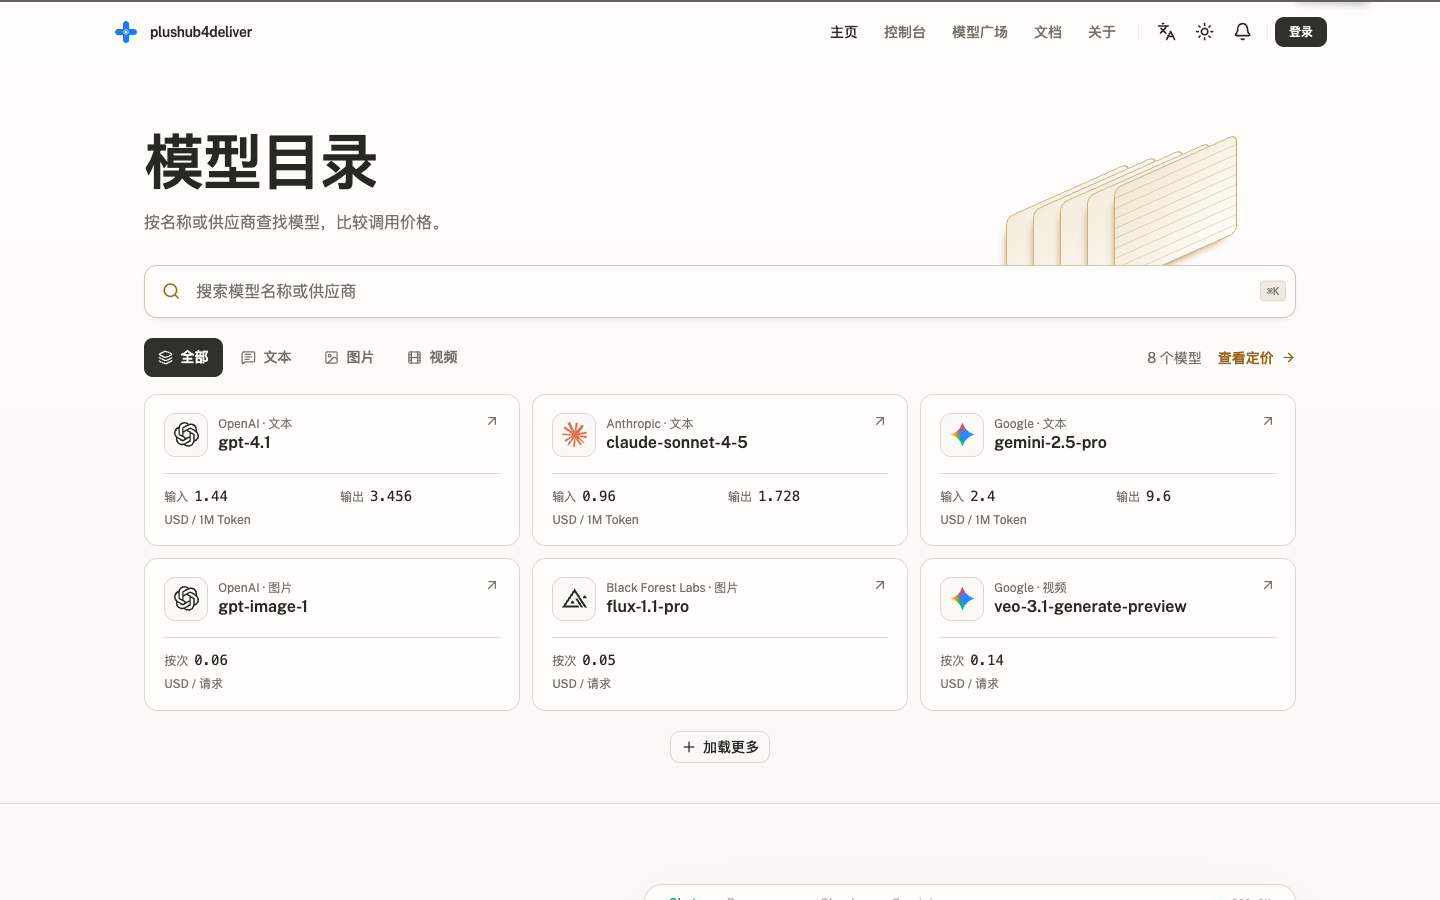
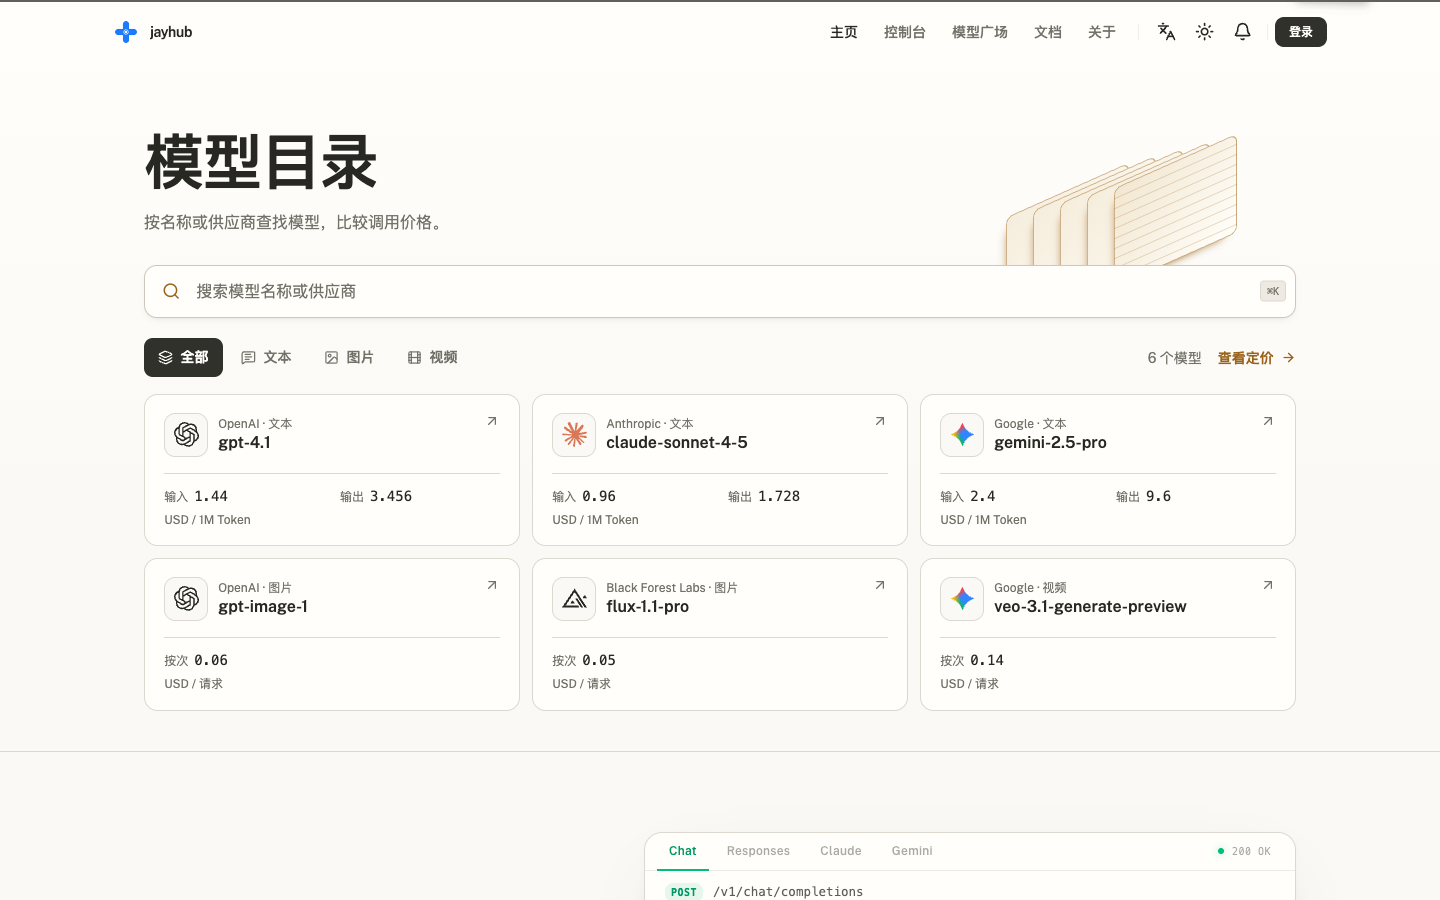
feat: rename the delivery site and repository to jayhub

Changed region(s): [[0.4375, 0.9333, 0.5938, 1.0], [0.0938, 0.0311, 0.1875, 0.0622], [0.4688, 0.8089, 0.5312, 0.84]]

diff --git a/delivery/甲方交付手册.md b/delivery/甲方交付手册.md
@@ -1,18 +1,18 @@
-# plushub4deliver 站点交付手册
+# jayhub 站点交付手册
 
 **交付对象**　甲方技术运维及运营负责人
 
-**交付版本**　基于 New API `v1.0.0-rc.51`，本次交付源码为 `9a7310a`。[接受邀请后查看本次交付源码](https://github.com/0xdenny218/plushub4deliver/tree/9a7310a9235e11af1174af4e5508a112056b1baf)
+**交付版本**　基于 New API `v1.0.0-rc.51`，本次交付源码由运营提供的 Git 提交号标识。[查看本次交付源码](https://github.com/0xdenny218/jayhub/tree/main)
 
 ## 一、接收项目与上游账号
 
-**先联系供货方运营获取 GitHub 私有仓库邀请。** 请通过双方约定的交付渠道，将负责接收源码的 GitHub 用户名提供给运营。收到邀请后，用该账号登录 GitHub 并接受邀请，再打开 [plushub4deliver 代码仓库](https://github.com/0xdenny218/plushub4deliver)。能看到仓库文件即表示访问已开通。若出现 404，请核对当前登录的账号，并联系运营确认邀请状态。
+请联系供货方运营确认本次交付版本和已开通的模型。源码可从 [jayhub 代码仓库](https://github.com/0xdenny218/jayhub) 通过 HTTPS 克隆。若运营为甲方单独提供私有仓库，请提供 GitHub 用户名，用受邀账号接受邀请后使用运营提供的仓库地址。
 
 甲方独立运行本站。终端用户向甲方注册、充值并申请 API 密钥。用户的模型请求经过甲方站点，使用供货方分配给甲方的上游 API Key 转发到供货方平台，再由供货方转发到对应的官方模型渠道。
 
 | 接收或准备的内容 | 由谁提供 | 用途 |
 | --- | --- | --- |
-| 私有仓库访问权限（交付源码、定制首页和登录页、Docker Compose） | 供货方运营 | 甲方在自己的服务器构建和运行站点 |
+| 代码仓库地址和交付版本（含首页、登录页和 Docker Compose） | 供货方运营 | 甲方在自己的服务器构建和运行站点 |
 | 供货方网关 Base URL、甲方专属上游 API Key、已开通的模型 ID 和协议 | 供货方另行交接，密钥通过私密渠道传递 | 甲方管理员在后台配置上游渠道 |
 | 服务器、域名、HTTPS 证书和备份位置 | 甲方 | 对外提供服务并保管数据 |
 | 站点管理员、零售价、用户额度及退款规则 | 甲方 | 管理终端用户和本站账单 |
@@ -25,18 +25,16 @@
 
 ### 1. 取得本次交付源码
 
-接受邀请后，在部署服务器上为 Git 配置 SSH 访问，例如将部署账号的 SSH 公钥添加到已获邀的 GitHub 账号。先查询远端 `HEAD` 确认有读取权限，成功后克隆并检出本次交付版本。
+以下命令适用于新部署。已运行旧版的实例请先按[单机部署与运维中的升级说明](./DEPLOYMENT.zh-CN.md)保留原项目名、密钥和数据卷。
 
 ```bash
-git ls-remote git@github.com:0xdenny218/plushub4deliver.git HEAD
-git clone git@github.com:0xdenny218/plushub4deliver.git /opt/plushub4deliver
-cd /opt/plushub4deliver
-git checkout --detach 9a7310a9235e11af1174af4e5508a112056b1baf
+git clone https://github.com/0xdenny218/jayhub.git /opt/jayhub
+cd /opt/jayhub
+read -rp '输入运营提供的交付提交号：' delivery_commit
+git checkout --detach "${delivery_commit:?请填写本次交付提交号}"
 ```
 
-如使用 HTTPS 克隆，请在部署服务器的 Git 凭据管理器中使用受邀账号完成 GitHub 认证，再使用仓库页面提供的 HTTPS 克隆地址。
-
-部署入口是 **`delivery/compose.yaml`**，它从交付源码构建带有定制页面的应用。根目录的 `docker-compose.yml` 使用上游镜像。甲方域名、证书私钥、数据库备份和真实密钥请保存在源码目录之外。[交付版 Compose 配置](https://github.com/0xdenny218/plushub4deliver/blob/9a7310a9235e11af1174af4e5508a112056b1baf/delivery/compose.yaml)
+部署入口是 **`delivery/compose.yaml`**，它从交付源码构建带有定制页面的应用。根目录的 `docker-compose.yml` 使用上游镜像。甲方域名、证书私钥、数据库备份和真实密钥请保存在源码目录之外。[交付版 Compose 配置](https://github.com/0xdenny218/jayhub/blob/main/delivery/compose.yaml)
 
 ### 2. 生成部署密钥
 
@@ -47,14 +45,15 @@ SITE_ORIGIN='https://gateway.example.com'
 (
   set -euC
   umask 077
-  mkdir -p "$HOME/.config/plushub4deliver"
+  mkdir -p "$HOME/.config/jayhub"
   {
     printf 'SITE_ORIGIN=%s\n' "$SITE_ORIGIN"
+    echo 'COMPOSE_PROJECT_NAME=jayhub'
     for key in POSTGRES_PASSWORD REDIS_PASSWORD SESSION_SECRET CRYPTO_SECRET; do
       value=$(openssl rand -hex 32)
       printf '%s=%s\n' "$key" "$value"
     done
-  } > "$HOME/.config/plushub4deliver/deploy.env"
+  } > "$HOME/.config/jayhub/deploy.env"
 )
 ```
 
@@ -63,10 +62,10 @@ SITE_ORIGIN='https://gateway.example.com'
 ### 3. 构建与检查
 
 ```bash
-cd /opt/plushub4deliver
+cd /opt/jayhub
 dc() {
-  docker compose --env-file "$HOME/.config/plushub4deliver/deploy.env" \
-    -f /opt/plushub4deliver/delivery/compose.yaml "$@"
+  docker compose --env-file "$HOME/.config/jayhub/deploy.env" \
+    -f /opt/jayhub/delivery/compose.yaml "$@"
 }
 dc config --quiet
 dc up -d --build
@@ -74,7 +73,7 @@ dc ps
 curl -fsS http://127.0.0.1:3000/api/status
 ```
 
-等待 `app`、`postgres`、`redis` 全部显示 `healthy` 后再初始化。状态接口应返回 `"success":true`，新站的 `data.system_name` 为 `plushub4deliver`。应用端口仅绑定本机，PostgreSQL 和 Redis 只在 Compose 网络内提供服务。后文的 `dc` 指上面的函数，重新打开终端时需再次定义。
+等待 `app`、`postgres`、`redis` 全部显示 `healthy` 后再初始化。状态接口应返回 `"success":true`，新站的 `data.system_name` 为 `jayhub`。应用端口仅绑定本机，PostgreSQL 和 Redis 只在 Compose 网络内提供服务。后文的 `dc` 指上面的函数，重新打开终端时需再次定义。
 
 ## 三、通过 HTTPS 创建管理员
 
@@ -129,4 +128,4 @@ unset SITE_USER_KEY
 | 备份与恢复 | `pg_data` 保存账号和账单，`app_data` 保存应用文件及日志，`redis_data` 保存 Redis 持久化数据。备份三个卷和部署密钥，保留异机副本，在独立环境验证恢复。 |
 | 升级 | 记录当前源码提交并备份数据及配置，切至双方确认的新版本，再执行 `dc up -d --build`。复验登录、模型调用和账单。若版本包含数据库迁移，回滚时使用匹配版本的数据库备份。 |
 
-数据库可通过 `pg_dump` 导出。更多备份命令及运维说明见[单机部署与运维](https://github.com/0xdenny218/plushub4deliver/blob/9a7310a9235e11af1174af4e5508a112056b1baf/delivery/DEPLOYMENT.zh-CN.md)。源码随附 [LICENSE](https://github.com/0xdenny218/plushub4deliver/blob/9a7310a9235e11af1174af4e5508a112056b1baf/LICENSE) 和 [NOTICE](https://github.com/0xdenny218/plushub4deliver/blob/9a7310a9235e11af1174af4e5508a112056b1baf/NOTICE)，站点页脚保留 New API 署名。
+数据库可通过 `pg_dump` 导出。更多备份命令及运维说明见[单机部署与运维](https://github.com/0xdenny218/jayhub/blob/main/delivery/DEPLOYMENT.zh-CN.md)。源码随附 [LICENSE](https://github.com/0xdenny218/jayhub/blob/main/LICENSE) 和 [NOTICE](https://github.com/0xdenny218/jayhub/blob/main/NOTICE)，站点页脚保留 New API 署名。

diff --git a/delivery/DEPLOYMENT.zh-CN.md b/delivery/DEPLOYMENT.zh-CN.md
@@ -1,6 +1,6 @@
-# plushub4deliver 单机部署与运维
+# jayhub 单机部署与运维
 
-首次获取源码，请联系供货方运营申请 GitHub 私有仓库邀请。使用受邀账号接受邀请后，按[甲方交付手册](./甲方交付手册.md)配置 Git 访问并克隆指定版本。
+首次获取源码时，请联系供货方运营确认交付版本及上游渠道。按[甲方交付手册](./甲方交付手册.md)从 jayhub 仓库克隆指定版本。
 
 从交付包根目录执行本文命令。配套的 [Compose 文件](./compose.yaml) 启动三个容器。`app` 提供网页和 API，`postgres` 保存账号、渠道和账单，`redis` 提供缓存。应用镜像由交付源码构建，包含定制首页和站点品牌。交付版使用本页配套文件；根目录的通用 Compose 默认拉取上游镜像。
 
@@ -8,46 +8,58 @@
 
 准备一台安装了 Docker Engine、Docker Compose 插件和 OpenSSL 的 Linux 服务器，以及一个已解析到服务器的 HTTPS 域名。首次构建需要能够下载基础镜像、Go 模块和前端依赖。宿主机 3000 端口须可用。
 
-以下假定交付源码位于 `/opt/plushub4deliver`，HTTPS 反向代理运行在同一台宿主机。把域名转发到 `http://127.0.0.1:3000`，保留请求的 Host 和原始 HTTPS 协议。代理应支持流式响应，使用 Nginx 时对 API 路径关闭响应缓冲。首次初始化完成前，将域名访问限制在运维人员范围内。
+以下假定交付源码位于 `/opt/jayhub`，HTTPS 反向代理运行在同一台宿主机。把域名转发到 `http://127.0.0.1:3000`，保留请求的 Host 和原始 HTTPS 协议。代理应支持流式响应，使用 Nginx 时对 API 路径关闭响应缓冲。首次初始化完成前，将域名访问限制在运维人员范围内。
 
 构建目录使用干净的交付源码，包含 `delivery/site.json`、`web/`、`relaykit/` 和 `tokenkit/`。运行密钥、数据库文件、日志和备份存放在源码目录外。
+
+### 从 plushub4deliver 升级
+
+已有实例请先备份，沿用原部署目录、原 `deploy.env` 和原 Compose 项目名。原版按手册安装时，配置文件是 `~/.config/plushub4deliver/deploy.env`，项目名是 `plushub4deliver`。在原源码目录更新至本次交付版本后，使用下面的命令重建服务，即可继续挂载原 PostgreSQL、Redis 和应用数据卷。曾通过 `-p` 自定义项目名的实例，请换成自己的项目名。
+
+```sh
+cd /opt/plushub4deliver
+docker compose -p plushub4deliver --env-file "$HOME/.config/plushub4deliver/deploy.env" -f delivery/compose.yaml up -d --build
+```
+
+新装实例按下文生成 `jayhub` 配置。后台已保存的站名优先于新版默认值，需要更换时在「系统设置 → 站点 → 系统信息」保存 `jayhub`。
 
 ## 2. 首次生成配置
 
 将下面的 `https://gateway.example.com` 换成浏览器实际访问的 HTTPS 地址。填写协议、主机和必要的端口，例如 `https://api.example.com:8443`，省略路径和末尾斜杠。在有权写入部署目录的运维账号下执行一次。
 
 ```sh
-cd /opt/plushub4deliver
+cd /opt/jayhub
 (
   set -euC
   umask 077
-  mkdir -p "$HOME/.config/plushub4deliver"
+  mkdir -p "$HOME/.config/jayhub"
   {
     echo 'SITE_ORIGIN=https://gateway.example.com'
+    echo 'COMPOSE_PROJECT_NAME=jayhub'
     for key in POSTGRES_PASSWORD REDIS_PASSWORD SESSION_SECRET CRYPTO_SECRET; do
       value=$(openssl rand -hex 32)
       printf '%s=%s\n' "$key" "$value"
     done
-  } > "$HOME/.config/plushub4deliver/deploy.env"
+  } > "$HOME/.config/jayhub/deploy.env"
 )
 ```
 
-配置文件位于 `~/.config/plushub4deliver/deploy.env`。重复执行会拒绝覆盖已有文件。升级和恢复时使用同一份密钥；已有 PostgreSQL 数据卷的密码轮换需要同时更新数据库角色和应用配置。
+配置文件位于 `~/.config/jayhub/deploy.env`。重复执行会拒绝覆盖已有文件。升级和恢复时使用同一份密钥；已有 PostgreSQL 数据卷的密码轮换需要同时更新数据库角色和应用配置。
 
 ## 3. 构建并启动
 
 在交付源码根目录执行。下面的 `dc` 是当前 shell 的简写，打开新终端后重新定义即可。
 
 ```sh
-cd /opt/plushub4deliver
-dc() { docker compose --env-file "$HOME/.config/plushub4deliver/deploy.env" -f delivery/compose.yaml "$@"; }
+cd /opt/jayhub
+dc() { docker compose --env-file "$HOME/.config/jayhub/deploy.env" -f delivery/compose.yaml "$@"; }
 dc config --quiet
 dc up -d --build
 dc ps
 curl -fsS http://127.0.0.1:3000/api/status
 ```
 
-等待三个服务都显示 `healthy`。本机状态接口应返回 `"success":true`，首次部署的 `data.system_name` 应为 `plushub4deliver`。首轮编译需要一些时间；启动异常时运行 `dc logs --tail=100 app postgres redis`。对外入口是 HTTPS 域名，PostgreSQL 和 Redis 仅在 Compose 内部网络提供服务。
+等待三个服务都显示 `healthy`。本机状态接口应返回 `"success":true`，首次部署的 `data.system_name` 应为 `jayhub`。首轮编译需要一些时间；启动异常时运行 `dc logs --tail=100 app postgres redis`。对外入口是 HTTPS 域名，PostgreSQL 和 Redis 仅在 Compose 内部网络提供服务。
 
 ## 4. 初始化与业务验收
 
@@ -71,8 +83,8 @@ curl -fsS http://127.0.0.1:3000/api/status
 
 ```sh
 umask 077
-mkdir -p "$HOME/plushub-backups"
-dc exec -T postgres pg_dump -U plushub -d plushub -Fc > "$HOME/plushub-backups/postgres-$(date +%Y%m%d-%H%M%S).dump"
+mkdir -p "$HOME/jayhub-backups"
+dc exec -T postgres pg_dump -U plushub -d plushub -Fc > "$HOME/jayhub-backups/postgres-$(date +%Y%m%d-%H%M%S).dump"
 ```
 
 `pg_data` 保存数据库，`app_data` 保存应用文件及文件日志，`redis_data` 保存 Redis 持久化数据。备份计划应包含这些卷和单独保管的 `deploy.env`，并在隔离环境验证恢复。升级可能迁移数据库，回滚前核对应用和数据库备份的版本。运维时保留数据卷，`docker compose down -v` 会删除项目卷。

diff --git a/DELIVERY_FRONTEND.md b/DELIVERY_FRONTEND.md
@@ -1,4 +1,4 @@
-# plushub4deliver 公开页面主题
+# jayhub 公开页面主题
 
 基于 QuantumNous/new-api `v1.0.0-rc.51`，基线提交 `c9c6da2786b6a0912215127e78e28fbc6650c85f`。
 
@@ -17,7 +17,7 @@
 - 价格、模型详情、关于、条款、隐私政策、其他认证页面使用官方 rc.51 布局。首页目录新增文案覆盖七种界面语言。
 - 模型转发、认证和计费沿用 rc.51。
 
-交付站的默认站名和 Logo 由 `delivery/site.json` 指定。初始名称为 `plushub4deliver`，Logo 使用 PlusHub 的蓝色加号。Logo 以内嵌图片随站交付，支持独立域名和离线加载。
+交付站的默认站名和 Logo 由 `delivery/site.json` 指定。初始名称为 `jayhub`，Logo 使用 PlusHub 的蓝色加号。Logo 以内嵌图片随站交付，支持独立域名和离线加载。
 
 甲方可以在「系统设置 → 站点 → 系统信息」修改系统名称和 Logo 地址，保存值优先于交付默认值。首页、登录页与浏览器标签通过公开的站点配置读取品牌。页脚沿用 New API 的 © 署名、贡献者说明和原项目链接。关于页的开源信息与协议兼容说明按原项目展示。浏览器标签在站点配置加载后显示运营品牌，原始 HTML 保留项目元数据。
 

diff --git a/README.zh_CN.md b/README.zh_CN.md
@@ -1,6 +1,6 @@
-# plushub4deliver · 甲方站点交付说明
+# jayhub · 甲方站点交付说明
 
-plushub4deliver 是由甲方独立部署和运营的 AI 模型网关。终端用户使用甲方站点签发的 API 密钥调用模型。甲方站点使用供货方分配的上游密钥，将请求转发至供货方网关，再由供货方接入官方模型渠道。
+jayhub 是由甲方独立部署和运营的 AI 模型网关。终端用户使用甲方站点签发的 API 密钥调用模型。甲方站点使用供货方分配的上游密钥，将请求转发至供货方网关，再由供货方接入官方模型渠道。
 
 甲方管理本站的用户、对外定价、额度和退款。供货方按其平台上甲方账户的账单与甲方结算，两套账单独立。
 

diff --git a/README.ja.md b/README.ja.md
@@ -1,4 +1,4 @@
-# plushub4deliver · 導入・運用ガイド
+# jayhub · 導入・運用ガイド
 
 本システムは、自社ドメインで運用できる AI モデルゲートウェイです。運営者は利用者向けの API キーを発行し、料金、利用枠、返金を管理します。モデルへのリクエストは、供給元が運営者に発行した上流 API キーで転送します。供給元は自社プラットフォームで記録した運営者アカウントの利用分を別途請求します。
 

diff --git a/README.fr.md b/README.fr.md
@@ -1,4 +1,4 @@
-# plushub4deliver · Guide d’exploitation
+# jayhub · Guide d’exploitation
 
 Le client déploie cette passerelle sur son domaine, délivre les clés API aux utilisateurs et gère les tarifs, les crédits et les remboursements. La passerelle transmet les requêtes avec la clé attribuée au client par le fournisseur. Celui-ci facture séparément la consommation enregistrée sur le compte du client.
 

diff --git a/README.zh_TW.md b/README.zh_TW.md
@@ -1,4 +1,4 @@
-# plushub4deliver · 站台交付說明
+# jayhub · 站台交付說明
 
 甲方在自己的網域部署 AI 模型閘道，向終端使用者核發 API 金鑰，並管理使用者、售價、額度與退款。站台使用供應方分配給甲方的上游金鑰轉送請求。供應方依其平台上甲方帳戶的帳單與甲方獨立結算。
 

diff --git a/README.en.md b/README.en.md
@@ -1,4 +1,4 @@
-# plushub4deliver · Operator guide
+# jayhub · Operator guide
 
 [简体中文](./README.zh_CN.md) · [繁體中文](./README.zh_TW.md) · [Français](./README.fr.md) · [日本語](./README.ja.md)
 

diff --git a/README.md b/README.md
@@ -1,4 +1,4 @@
-# plushub4deliver · Operator guide
+# jayhub · Operator guide
 
 [简体中文](./README.zh_CN.md) · [繁體中文](./README.zh_TW.md) · [Français](./README.fr.md) · [日本語](./README.ja.md)
 
